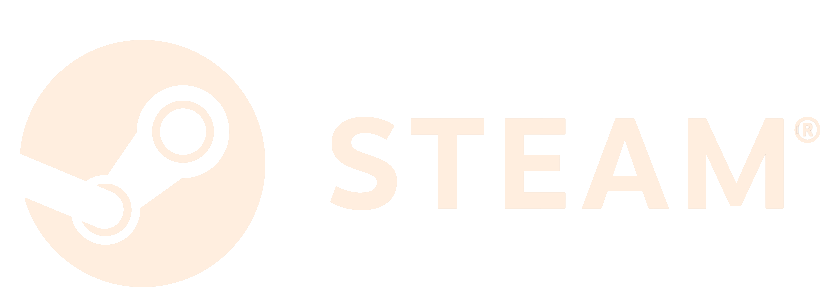
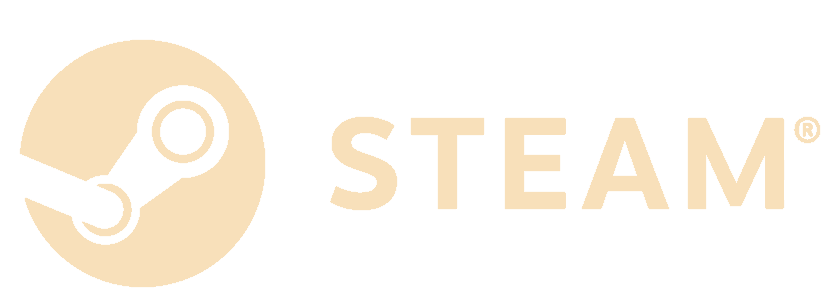
Update to Strayed

Changed region(s): [[0.0, 0.12, 0.3405, 0.96], [0.3714, 0.39, 0.9905, 0.72]]

diff --git a/index.html b/index.html
@@ -6,7 +6,7 @@
     <title>Sunbeam Games</title>
     <link rel="stylesheet" href="https://use.typekit.net/ruy0hfp.css">
     <link rel="stylesheet" href="css/styles.css">
-    <link rel="shortcut icon" type="image/x-icon" href="img/Icon.svg" />
+    <link rel="shortcut icon" type="image/x-icon" href="img/Icon Transparent.svg" />
 </head>
 <body>
     <div id="content">
@@ -15,30 +15,34 @@
                 <div id="navbar">
                     <a href="/" id="logo"><img src="img/Layer 1.svg" alt=""></a>
                     <div id="links">
-                        <a href="#astray">Astray</a>
+                        <a href="#strayed">Strayed</a>
                         <a href="#about">About</a>
                     </div>
                 </div>
-                <img src="img/Title.png" alt="" id="title">
-                <a href="#astray" id="arrow"><img src="img/Path 18.svg" alt=""></a>
+                <img src="img/_0001_Strayed.png" alt="" id="title">
+                <a href="#strayed" id="arrow"><img src="img/Path 18.svg" alt=""></a>
             </div>
 
-            <section id="astray">
+            <section id="strayed">
                 <h2>After Desmond's unexpected disappearance, Annie ventures on a quest to solve the sudden mystery. Explore the town and trace Desmond's steps, slowly uncovering the dark and hidden truths about the village.</h2>
                 <div class="inner">
                     <p>Wishlist the game on Steam:</p>
                     <a href="/"><img src="img/Steam Light.png" alt=""></a>
                 </div>
                 <p>Join the email list to get a one-time notification when the game is released!</p>
-                <input id="email" type="email" name="email" placeholder="Email" required>
-                <input class="link" type="submit" value="Submit">
+                <form action="https://github.us17.list-manage.com/subscribe/post?u=5423032e28db78eb12c4d3696&amp;id=cbf313222a" method="post" id="mc-embedded-subscribe-form" name="mc-embedded-subscribe-form" class="validate" target="_blank" novalidate>
+                    <input id="mce-EMAIL" type="email" name="EMAIL" placeholder="Email" value="" class="email" required>
+                    <div style="position: absolute; left: -5000px;" aria-hidden="true"><input type="text" name="b_5423032e28db78eb12c4d3696_cbf313222a" tabindex="-1" value=""></div>
+                    <div class="clear"><input type="submit" value="Submit" name="subscribe" id="mc-embedded-subscribe" class="button"></div>
+                    </div>
+                </form>
             </section>
 
             <section id="about">
-                <h2>Sunbeam Games was created by Jacob Yoon, a high school student and an avid game developer. He is deeply interested in 3D modelling, web development, graphic design, music, and programming, and creating Astray was a passion project of his during the summer before senior year.</h2>
+                <h2>Sunbeam was created by Jacob Yoon, a high school student and an avid game developer. He is deeply interested in 3D modelling, web development, graphic design, music, and programming, and creating Strayed was a passion project of his during the summer before his senior year.</h2>
                 <div class="row">
                     <a href="mailto:jacobyoon926@gmail.com" class="link" target="_blank">jacobyoon926@gmail.com</a>
-                    <a href="/" class="link" target="_blank">Twitter</a>
+                    <a href="https://twitter.com/SunbeamDev" class="link" target="_blank">Twitter</a>
                     <a href="https://www.reddit.com/user/jyoon926" class="link" target="_blank">Reddit</a>
                 </div>
             </section>
@@ -50,7 +54,8 @@
     </div>
 </body>
 <script src="https://code.jquery.com/jquery-3.1.1.min.js"></script>
-<script src="js/jquery-inertiaScroll.js"></script>
+<script src="js/script.js"></script>
+<!-- <script src="js/jquery-inertiaScroll.js"></script>
 <script>
     $(function(){
         if ($(window).width() > 850) {
@@ -59,5 +64,5 @@
             });
         }
     });
-</script>
+</script> -->
 </html>

diff --git a/css/styles.css b/css/styles.css
@@ -1,7 +1,7 @@
 * {
   margin: 0;
   padding: 0;
-  color: #FFEEDF;
+  color: #f8e0ba;
   font-family: degular, sans-serif;
   font-weight: 400;
 }
@@ -16,7 +16,7 @@ html {
 
 body {
   overflow-x: hidden;
-  background: #340614;
+  background: #151a2c;
   margin: 0;
   padding: 0;
 }
@@ -37,7 +37,7 @@ body {
   -webkit-box-pack: justify;
       -ms-flex-pack: justify;
           justify-content: space-between;
-  background: url("../img/Group 2.png");
+  background: url("../img/Screenshot Clear.png");
   background-position: center;
   background-size: cover;
   -webkit-box-sizing: border-box;
@@ -89,7 +89,7 @@ body {
 }
 
 #hero #navbar #links a {
-  color: #FFEEDF;
+  color: #f8e0ba;
   text-decoration: none;
   margin-left: 40px;
   padding: 2px 0;
@@ -100,13 +100,13 @@ body {
 }
 
 #hero #navbar #links a:hover {
-  border-bottom: 2px solid #FFEEDF;
+  border-bottom: 2px solid #f8e0ba;
 }
 
 #hero #title {
   width: 80vw;
-  max-width: 1000px;
-  padding-top: 15vh;
+  max-width: 900px;
+  padding-top: 7vh;
 }
 
 #hero #arrow {
@@ -121,7 +121,7 @@ body {
 }
 
 section {
-  background: #44151D;
+  background: #212635;
   -webkit-box-sizing: border-box;
           box-sizing: border-box;
   padding: 10vw 20vw;
@@ -172,59 +172,76 @@ section p {
   font-size: 2em;
 }
 
-section #email {
+section form {
+  width: 100%;
+  display: -webkit-box;
+  display: -ms-flexbox;
+  display: flex;
+  -webkit-box-orient: vertical;
+  -webkit-box-direction: normal;
+      -ms-flex-direction: column;
+          flex-direction: column;
+  -webkit-box-pack: start;
+      -ms-flex-pack: start;
+          justify-content: flex-start;
+  -webkit-box-align: start;
+      -ms-flex-align: start;
+          align-items: flex-start;
+}
+
+section #mce-EMAIL {
   all: unset;
-  background: #340614;
+  background: #151a2c;
   width: 100%;
   -webkit-box-sizing: border-box;
           box-sizing: border-box;
   padding: 20px;
   font-size: 1.5em;
-  border: 2px solid #340614;
-  border-bottom: 2px solid #FFEEDF;
+  border: 2px solid #151a2c;
+  border-bottom: 2px solid #f8e0ba;
   margin: 24px 0;
   -webkit-transition-duration: .4s;
           transition-duration: .4s;
 }
 
-section #email:focus {
-  border: 2px solid #FFEEDF;
+section #mce-EMAIL:focus {
+  border: 2px solid #f8e0ba;
 }
 
-section #email::-webkit-input-placeholder {
-  color: #FFEEDF;
+section #mce-EMAIL::-webkit-input-placeholder {
+  color: #f8e0ba;
 }
 
-section #email:-ms-input-placeholder {
-  color: #FFEEDF;
+section #mce-EMAIL:-ms-input-placeholder {
+  color: #f8e0ba;
 }
 
-section #email::-ms-input-placeholder {
-  color: #FFEEDF;
+section #mce-EMAIL::-ms-input-placeholder {
+  color: #f8e0ba;
 }
 
-section #email::placeholder {
-  color: #FFEEDF;
+section #mce-EMAIL::placeholder {
+  color: #f8e0ba;
 }
 
-.link {
+.button {
   all: unset;
-  background: #FFEEDF;
+  background: #f8e0ba;
   padding: 15px 30px;
-  color: #44151D;
+  color: #212635;
   font-size: 1.5em;
   -webkit-transition-duration: .3s;
           transition-duration: .3s;
 }
 
-.link:hover {
+.button:hover {
   cursor: pointer;
   -webkit-transform: translateY(-5px);
           transform: translateY(-5px);
 }
 
 #about {
-  background: #340614;
+  background: #151a2c;
 }
 
 #about .row {
@@ -249,11 +266,11 @@ section #email::placeholder {
 }
 
 .bottom {
-  background: #340614;
+  background: #151a2c;
   -webkit-box-sizing: border-box;
           box-sizing: border-box;
   text-align: center;
-  padding: 0 40px;
+  padding: 20px 40px;
 }
 
 .bottom p {
@@ -301,7 +318,7 @@ section #email::placeholder {
   }
   #hero #title {
     max-width: 1000px;
-    padding-top: 110px;
+    padding-top: 50px;
   }
   #hero #arrow {
     display: none;

diff --git a/css/styles.scss b/css/styles.scss
@@ -1,6 +1,6 @@
-$white: #FFEEDF;
-$red: #44151D;
-$dark-red: #340614;
+$white: #f8e0ba;
+$red: #212635;
+$dark-red: #151a2c;
 * {
     margin: 0; padding: 0;
     color: $white;
@@ -25,7 +25,7 @@ body {
     flex-direction: column;
     align-items: center;
     justify-content: space-between;
-    background: url('../img/Group\ 2.png');
+    background: url('../img/Screenshot\ Clear.png');
     background-position: center;
     background-size: cover;
     box-sizing: border-box;
@@ -67,8 +67,8 @@ body {
     }
     #title {
         width: 80vw;
-        max-width: 1000px;
-        padding-top: 15vh;
+        max-width: 900px;
+        padding-top: 7vh;
     }
     #arrow {
         height: 40px;
@@ -109,7 +109,14 @@ section {
     p {
         font-size: 2em;
     }
-    #email {
+    form {
+        width: 100%;
+        display: flex;
+        flex-direction: column;
+        justify-content: flex-start;
+        align-items: flex-start;
+    }
+    #mce-EMAIL {
         all: unset;
         background: $dark-red;
         width: 100%;
@@ -128,7 +135,7 @@ section {
         }
     }
 }
-.link {
+.button {
     all: unset;
     background: $white;
     padding: 15px 30px;
@@ -157,7 +164,7 @@ section {
     background: $dark-red;
     box-sizing: border-box;
     text-align: center;
-    padding: 0 40px;
+    padding: 20px 40px;
     p {
         font-size: 1.25em;
         opacity: 0.6;
@@ -199,7 +206,7 @@ section {
         }
         #title {
             max-width: 1000px;
-            padding-top: 110px;
+            padding-top: 50px;
         }
         #arrow {
             display: none;
